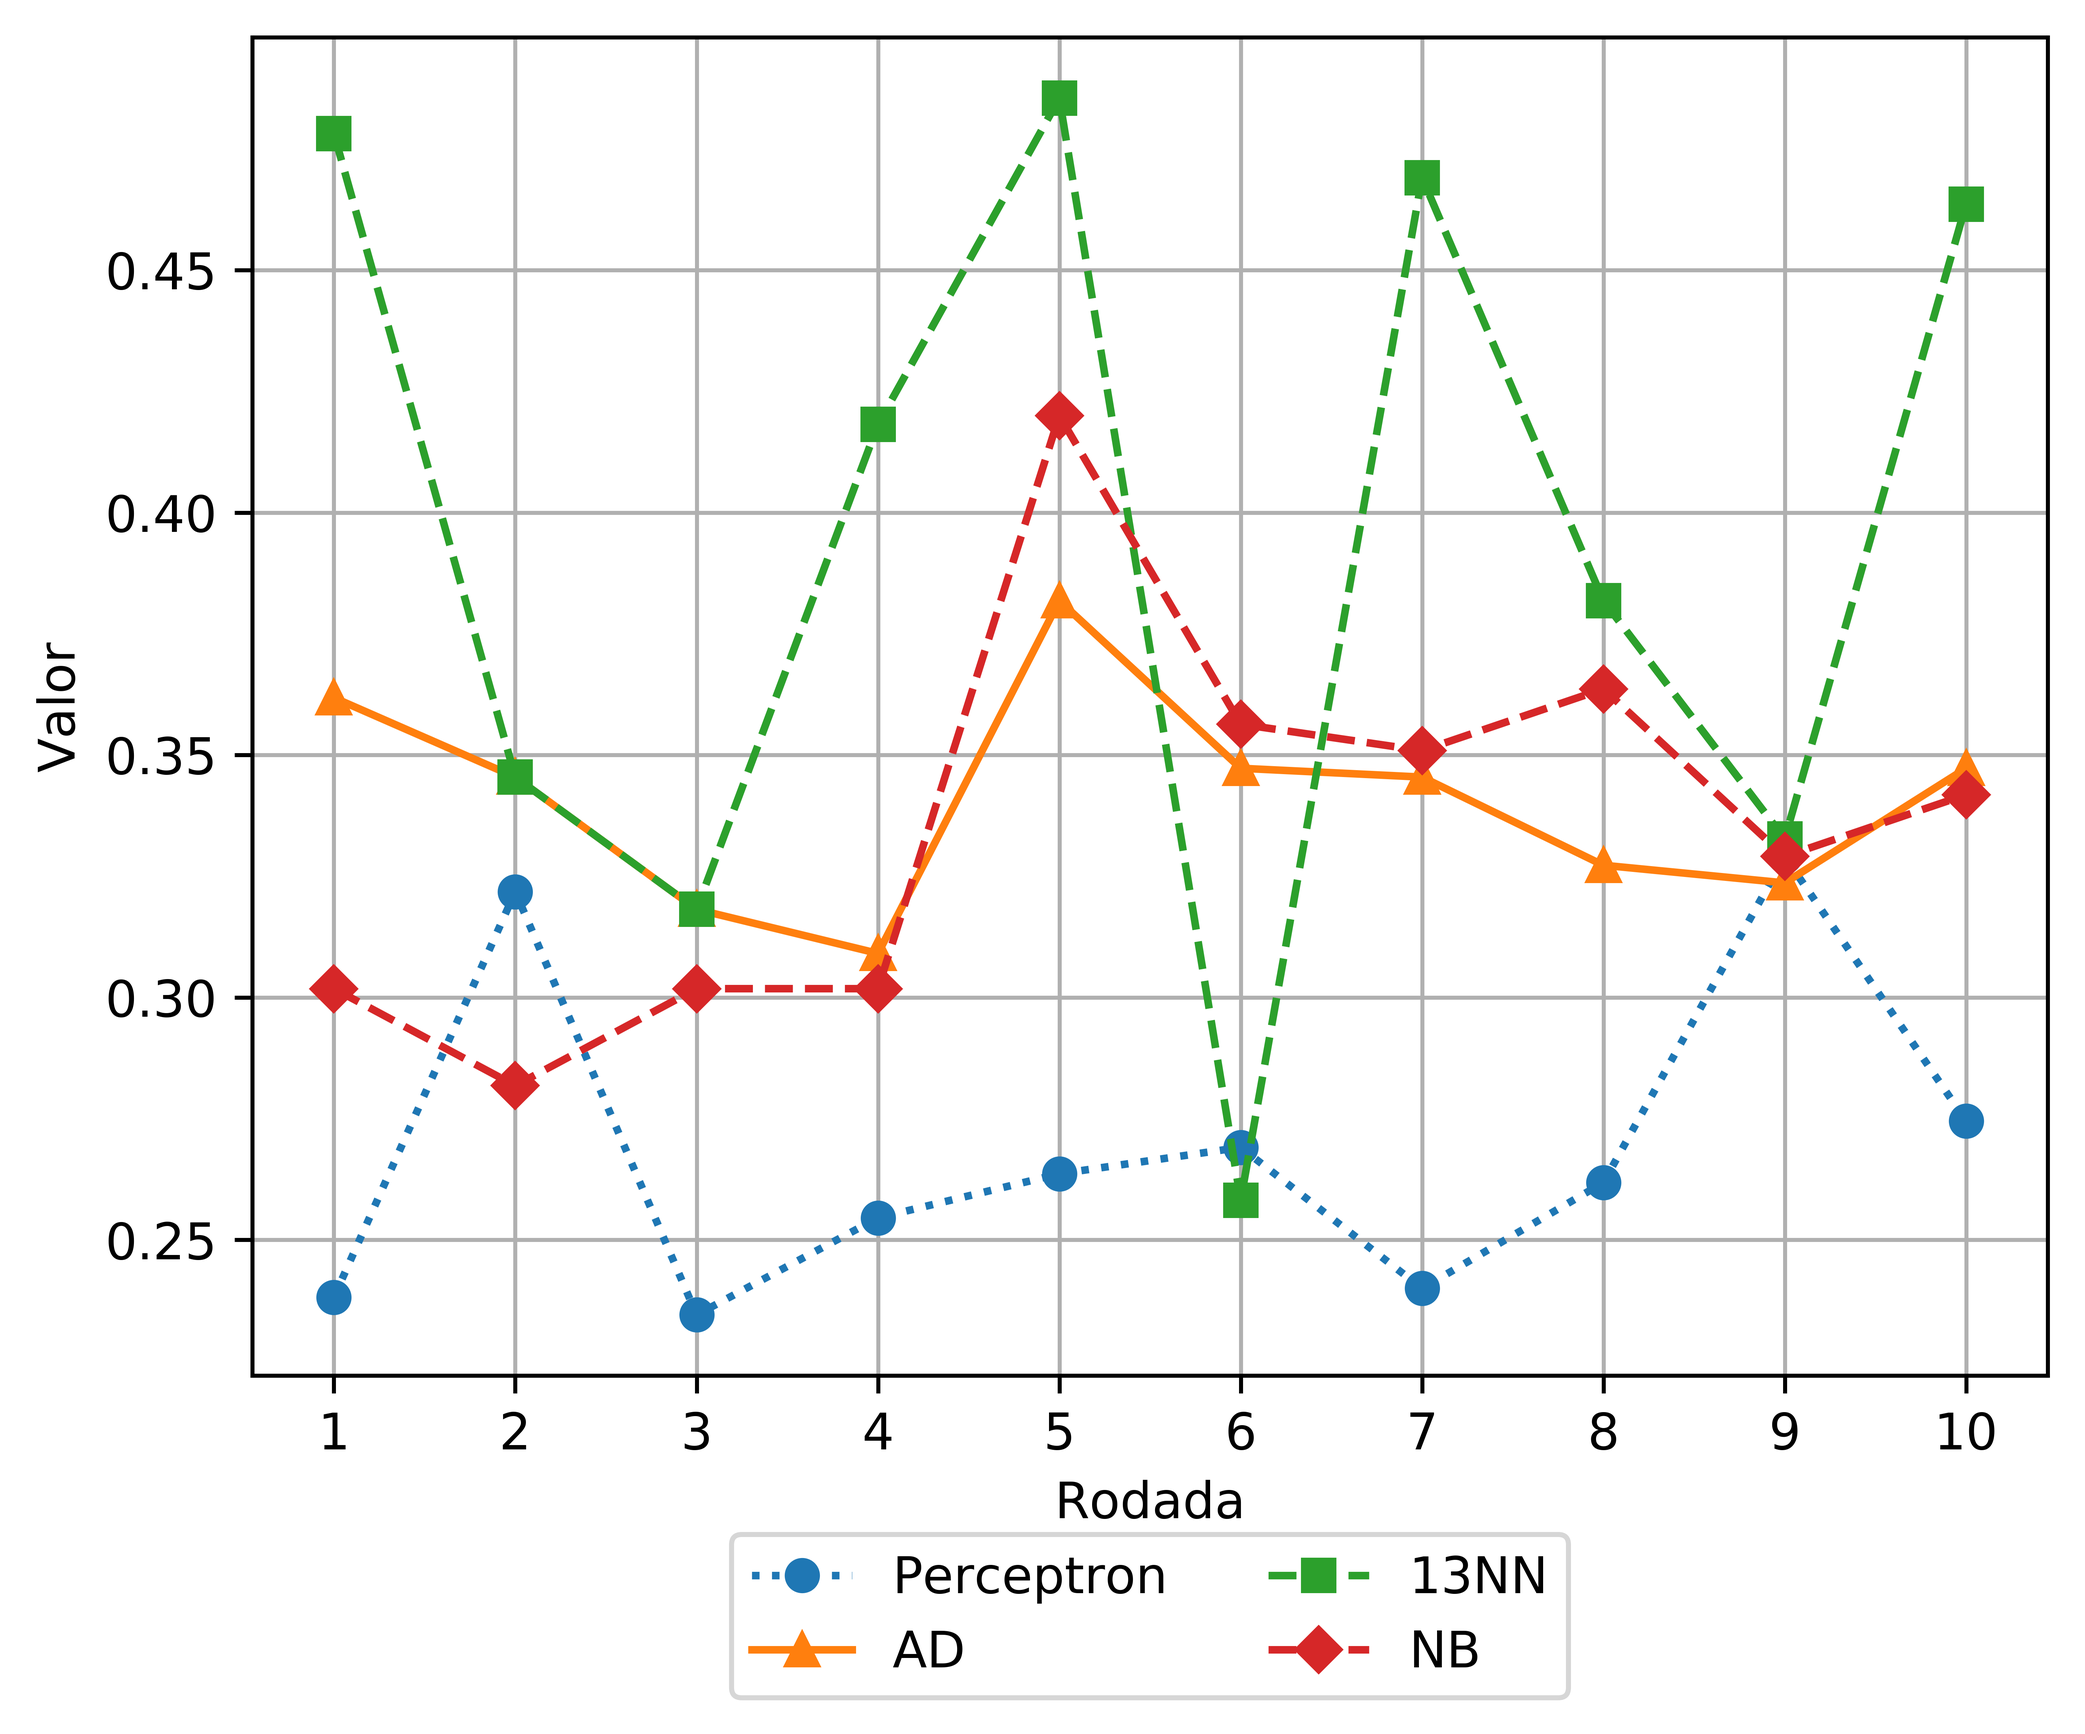
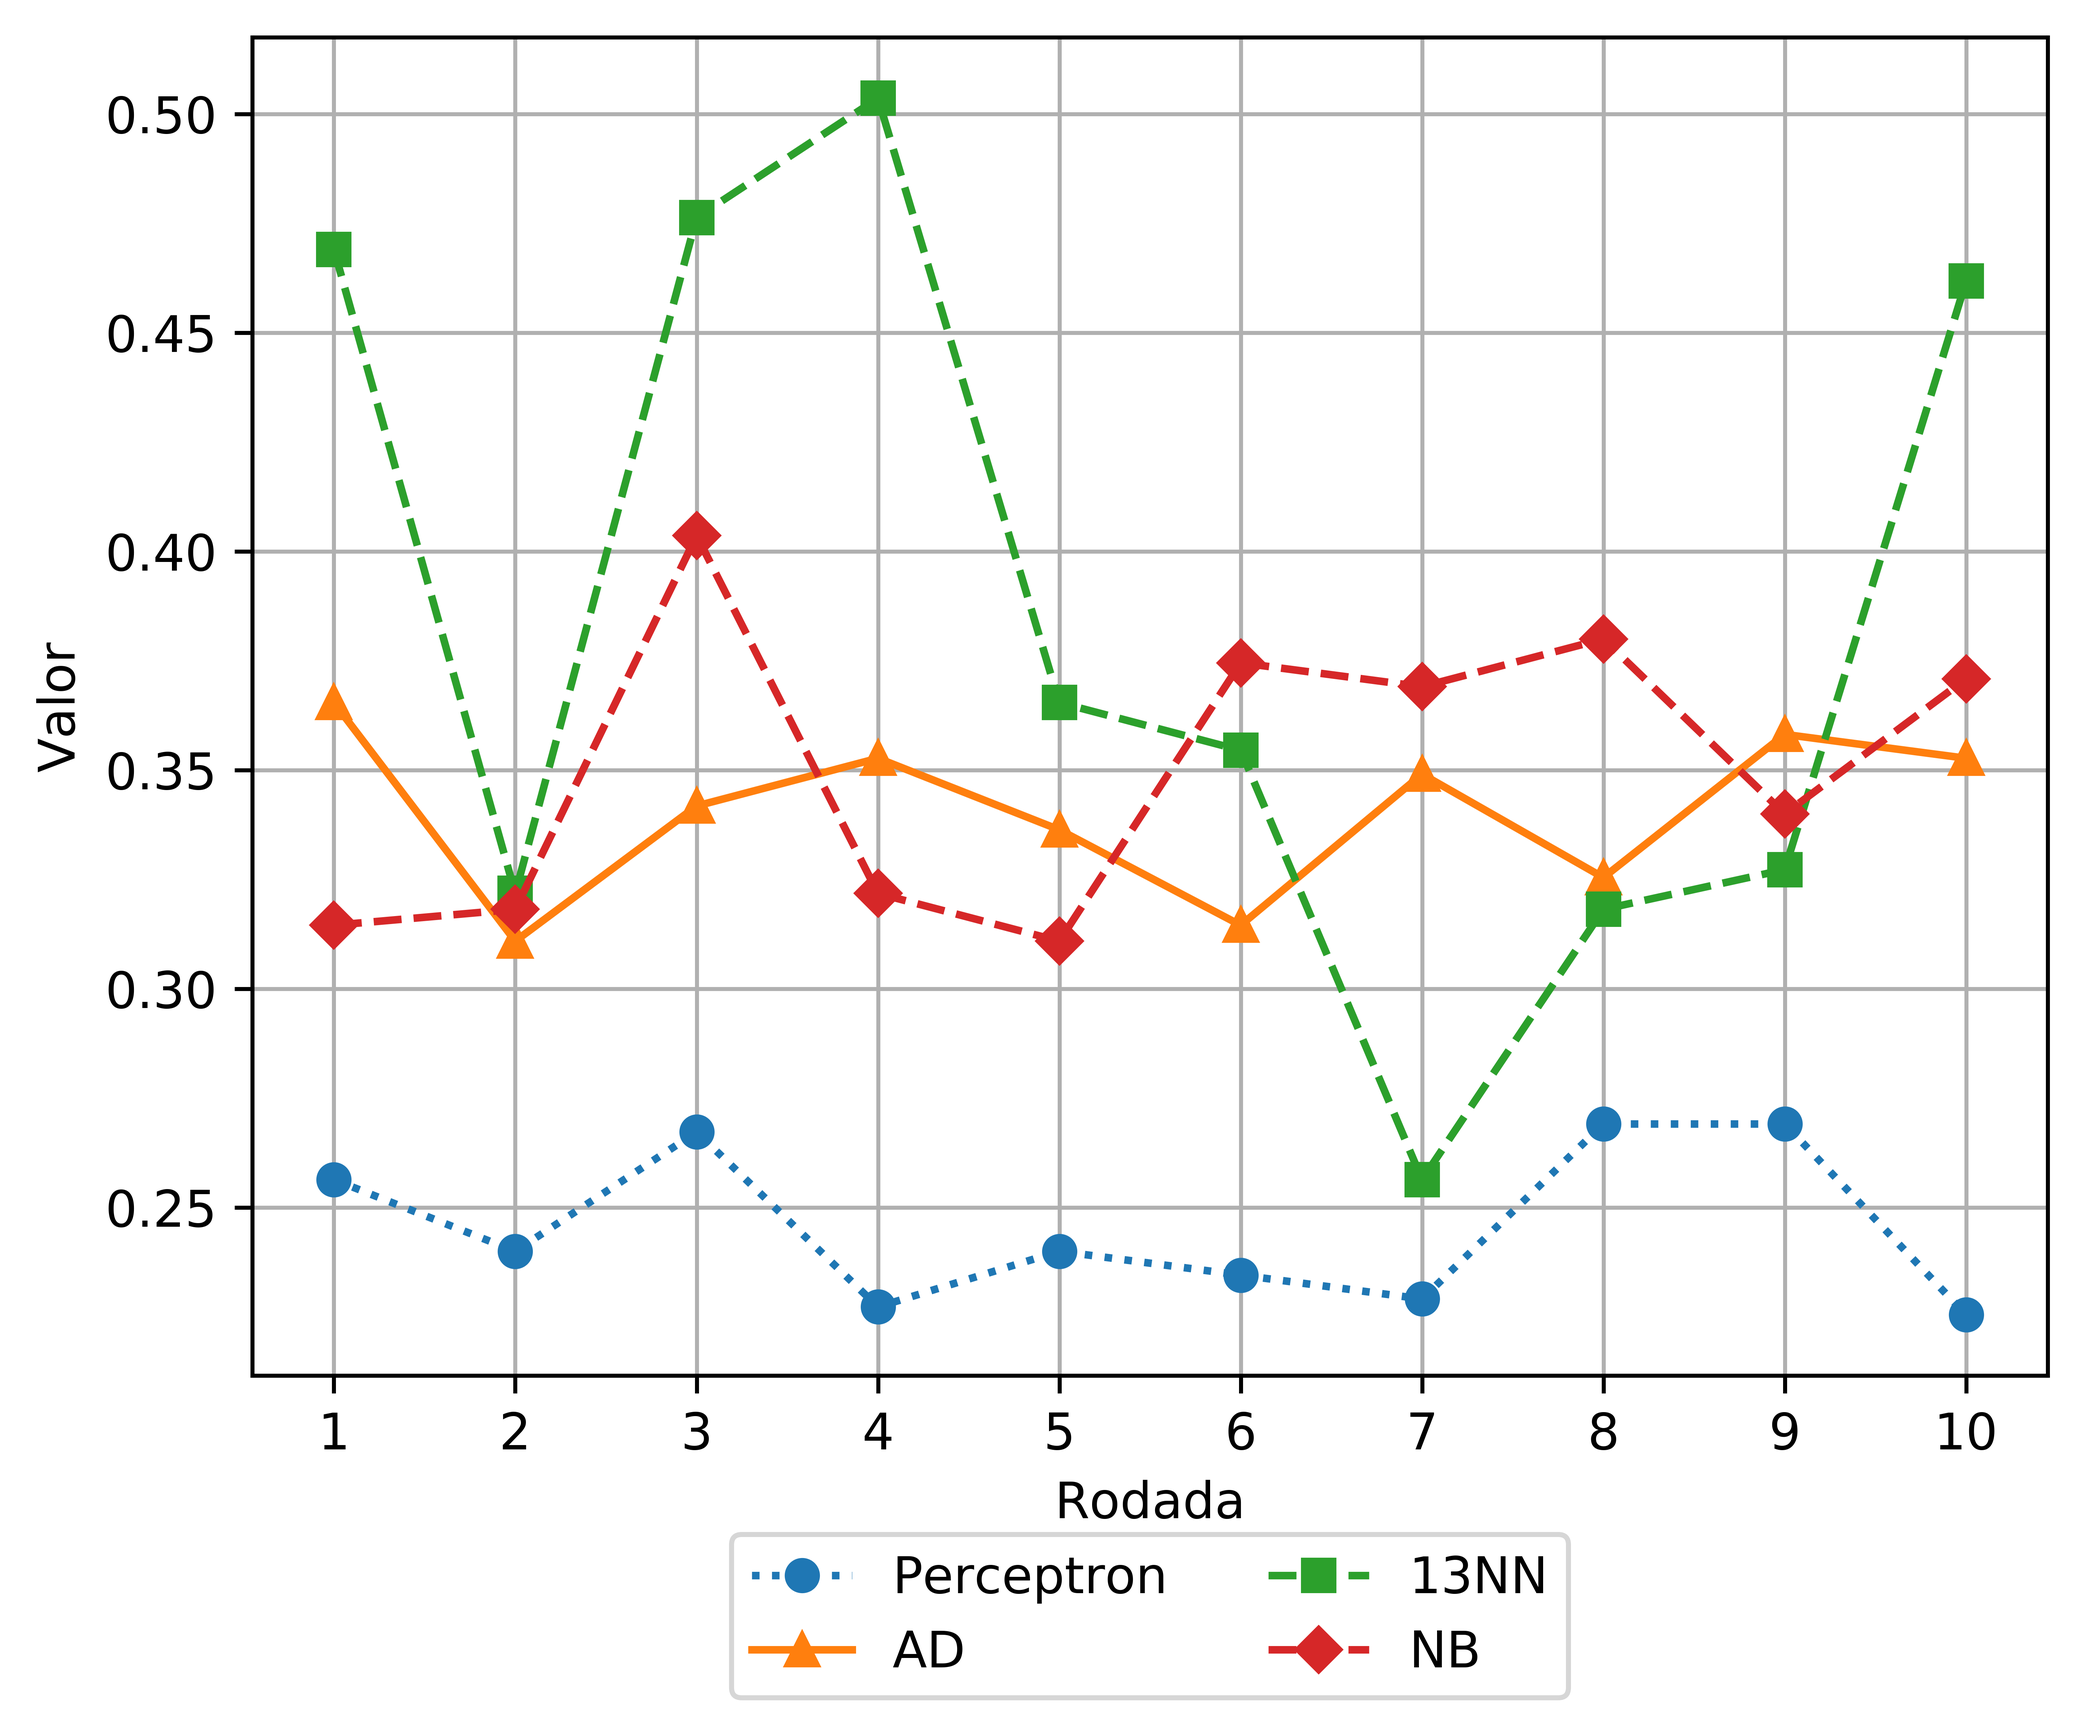
variavel de grafico no arquivo de configuração

diff --git a/src/machine_algorithms.py b/src/machine_algorithms.py
@@ -1,11 +1,12 @@
 import pandas as pd
-from sklearn.tree import DecisionTreeClassifier
 from sklearn.linear_model import Perceptron
 from sklearn.metrics import precision_score, mean_absolute_error
 from sklearn.model_selection import train_test_split
 from sklearn.naive_bayes import GaussianNB
 from sklearn.neighbors import KNeighborsClassifier
-from sys_variables import THREADS_NUMBER, N_NEIGHBORS, TEST_SIZE
+from sklearn.tree import DecisionTreeClassifier
+
+from sys_variables import THREADS_NUMBER, N_NEIGHBORS, TEST_SIZE, MAX_DEPTH, MIN_SAMPLES_LEAF
 
 
 def train_naive_bayes(x_train, y_train):
@@ -21,7 +22,8 @@ def train_knn(x_train, y_train):
 
 
 def train_tree(x_train, y_train):
-    clf = DecisionTreeClassifier(criterion="entropy", random_state=100, max_depth=11, min_samples_leaf=5)
+    clf = DecisionTreeClassifier(criterion="entropy", random_state=100, max_depth=MAX_DEPTH,
+                                 min_samples_leaf=MIN_SAMPLES_LEAF)
     clf = clf.fit(x_train, y_train)
     return clf
 

diff --git a/main.py b/main.py
@@ -1,11 +1,11 @@
-from src.mining_data import make_dataset
-from src.model_vec import model_vectorize
-from src import machine_algorithms
-from src import preprocessing
-from src import graphics
-from sys_variables import EXECUTION_TIMES
 import pandas as pd
 
+from src import graphics
+from src import machine_algorithms
+from src import preprocessing
+from src.mining_data import make_dataset
+from src.model_vec import model_vectorize
+from sys_variables import EXECUTION_TIMES
 
 if __name__ == '__main__':
     # Load Dataset
@@ -23,5 +23,6 @@ if __name__ == '__main__':
         data_df, polarity_class = model_vectorize(DATASET)
         print("\n")
         print("4.\tAprendizado")
-        results_df = pd.concat([results_df, machine_algorithms.main(data_df, polarity_class, i+1, 'Model_1')], sort=False)
+        results_df = pd.concat([results_df, machine_algorithms.main(data_df, polarity_class, i + 1, 'Model_1')],
+                               sort=False)
     graphics.generate(results_df)

diff --git a/src/graphics.py b/src/graphics.py
@@ -1,8 +1,6 @@
 import matplotlib.pyplot as plt
 
-graph_style = [':', '-', '--', '--']
-graph_colors = ['tab:blue', 'tab:orange', 'tab:green', 'tab:red']
-graph_makers = ['o', '^', 's', 'D']
+from sys_variables import GRAPH_STYLE, GRAPH_COLORS, GRAPH_MAKERS
 
 
 def generate(results_df):
@@ -12,8 +10,8 @@ def generate(results_df):
             plt.grid(True)
             plt.xlabel('Rodada')
             plt.ylabel('Valor')
-            for algorithm, style, colors, makers in zip(results_df['algorithm'].unique().tolist(), graph_style,
-                                                        graph_colors, graph_makers):
+            for algorithm, style, colors, makers in zip(results_df['algorithm'].unique().tolist(), GRAPH_STYLE,
+                                                        GRAPH_COLORS, GRAPH_MAKERS):
                 at_df = results_df[
                     (results_df['algorithm'] == algorithm) &
                     (results_df['model'] == model) &

diff --git a/sys_variables.py b/sys_variables.py
@@ -1,4 +1,12 @@
+# System Usage Variables
 THREADS_NUMBER = 3
 EXECUTION_TIMES = 10
+# Machine Learning Variables
 N_NEIGHBORS = 13
+MAX_DEPTH = 11
+MIN_SAMPLES_LEAF = 5
 TEST_SIZE = 0.20
+# Graphics Config Variabless
+GRAPH_STYLE = [':', '-', '--', '--']
+GRAPH_COLORS = ['tab:blue', 'tab:orange', 'tab:green', 'tab:red']
+GRAPH_MAKERS = ['o', '^', 's', 'D']
